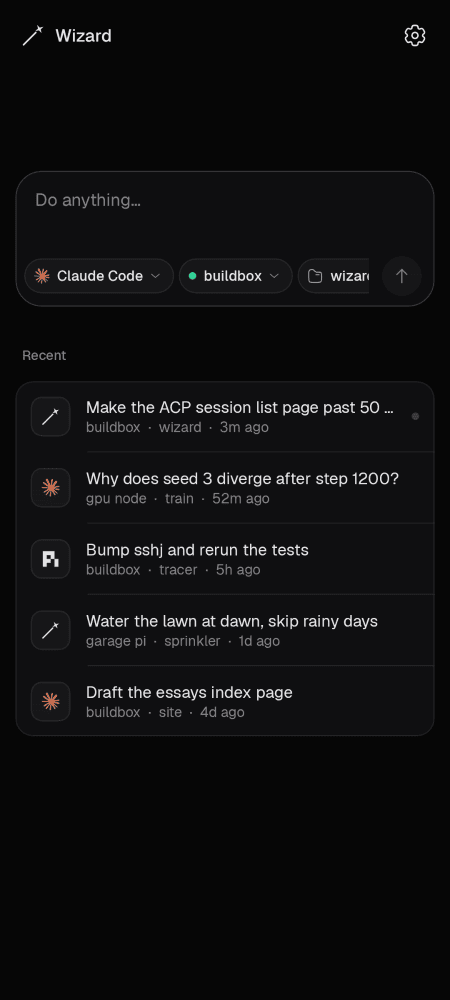
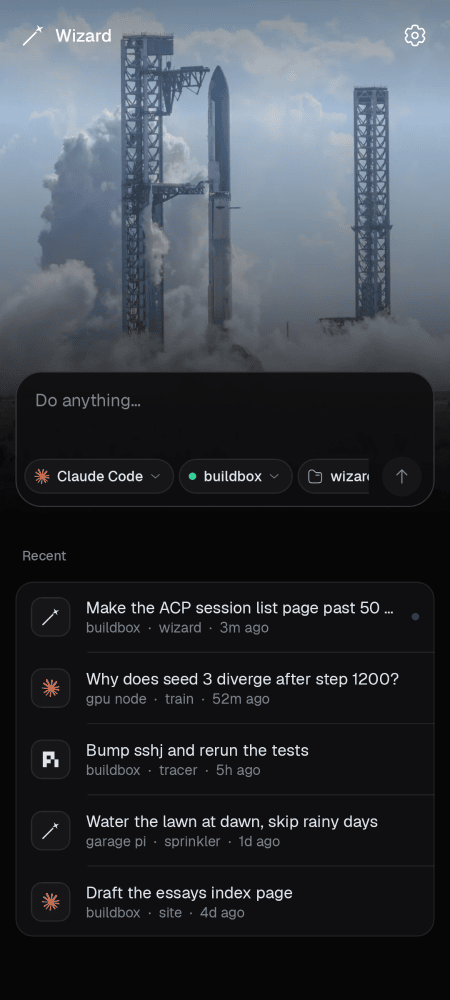
Show the Starship backdrop behind new chats for every agent

diff --git a/android/app/src/main/java/com/teddytennant/wizard/ui/screens/OnboardingScreen.kt b/android/app/src/main/java/com/teddytennant/wizard/ui/screens/OnboardingScreen.kt
@@ -195,7 +195,7 @@ private fun Appearance(settings: Settings, onTheme: (ThemeChoice) -> Unit, onCom
     Segmented(listOf(ThemeChoice.Dark to "Dark", ThemeChoice.Light to "Light", ThemeChoice.System to "System"), settings.theme, onTheme)
     Column(Modifier.padding(horizontal = 0.dp)) {
         ToggleRow("Compact mode", "Fold each turn's tool calls and thinking into one line, so replies stay front and center.", settings.compact, onCompact, inset = 0.dp)
-        ToggleRow("Wizard artwork", "Show the Starship backdrop behind new Wizard chats.", settings.artwork, onArtwork, inset = 0.dp)
+        ToggleRow("Starship artwork", "Show the Starship backdrop behind new chats.", settings.artwork, onArtwork, inset = 0.dp)
     }
     Nav(OnboardingStep.Appearance, onStep)
 }

diff --git a/android/app/src/test/java/com/teddytennant/wizard/ui/ScreenshotTest.kt b/android/app/src/test/java/com/teddytennant/wizard/ui/ScreenshotTest.kt
@@ -100,6 +100,10 @@ class ScreenshotTest {
 
     @Test fun homeClaude() = shot("home_claude") { Home(Fixtures.home(Agent.ClaudeCode)) }
 
+    @Test fun homePi() = shot("home_pi") { Home(Fixtures.home(Agent.Pi)) }
+
+    @Test fun homeNoArtwork() = shot("home_no_artwork") { Home(Fixtures.home().copy(artwork = false)) }
+
     @Test fun homeFirstRun() = shot("home_first_run") {
         Home(com.teddytennant.wizard.ui.screens.HomeState(null, com.teddytennant.wizard.session.MachineStatus(), Agent.Wizard, null, emptyList(), false, false, true))
     }

diff --git a/android/app/src/main/java/com/teddytennant/wizard/ui/screens/SettingsScreens.kt b/android/app/src/main/java/com/teddytennant/wizard/ui/screens/SettingsScreens.kt
@@ -95,7 +95,7 @@ fun SettingsContent(
         Panel(padding = PaddingValues(0.dp)) {
             ToggleRow("Compact mode", "Fold each turn's tool calls and thinking into one line", settings.compact, onCompact)
             Hairline()
-            ToggleRow("Wizard artwork", "The Starship backdrop behind new Wizard chats", settings.artwork, onArtwork)
+            ToggleRow("Starship artwork", "The Starship backdrop behind new chats", settings.artwork, onArtwork)
         }
 
         SectionLabel("Notifications", Modifier.padding(top = 20.dp))

diff --git a/android/app/src/main/java/com/teddytennant/wizard/data/Stores.kt b/android/app/src/main/java/com/teddytennant/wizard/data/Stores.kt
@@ -24,7 +24,7 @@ data class Settings(
     val askedForNotifications: Boolean = false,
     /** Folds each turn's tool calls and thinking into one line, as the desktop's Compact mode. */
     val compact: Boolean = false,
-    /** The Starship backdrop behind new Wizard chats, as the desktop's "Wizard artwork". */
+    /** The Starship backdrop behind the new-chat screen, for every agent. */
     val artwork: Boolean = true,
     val onboarded: Boolean = false,
 )

diff --git a/android/app/src/main/java/com/teddytennant/wizard/ui/screens/HomeScreen.kt b/android/app/src/main/java/com/teddytennant/wizard/ui/screens/HomeScreen.kt
@@ -92,7 +92,7 @@ fun HomeContent(
     now: Instant = Instant.now(),
 ) {
     val colors = WizardTheme.colors
-    val showArt = state.artwork && state.agent == Agent.Wizard
+    val showArt = state.artwork
     BoxWithConstraints(Modifier.fillMaxSize().background(colors.background)) {
         val heroHeight = (maxHeight * 0.52f).coerceIn(300.dp, 480.dp)
         if (showArt) Starship(Modifier.fillMaxWidth().height(heroHeight))

diff --git a/android/README.md b/android/README.md
@@ -51,7 +51,7 @@ The first launch walks through this; later, it's Settings, Machines, +.
 
 The app opens on a new chat. Type and send. The chips under the message pick the agent, the machine and the folder, and remember the last choice. Below is one list of recent chats from every machine and agent, newest first. The tune button in a chat switches model and effort (and Wizard's mode) for that session.
 
-Settings has the theme, compact mode (a turn's tool calls and thinking fold into one line) and the Starship artwork behind new Wizard chats, as on the desktop.
+Settings has the theme, compact mode (a turn's tool calls and thinking fold into one line) and the Starship artwork behind new chats.
 
 ## How it behaves
 
